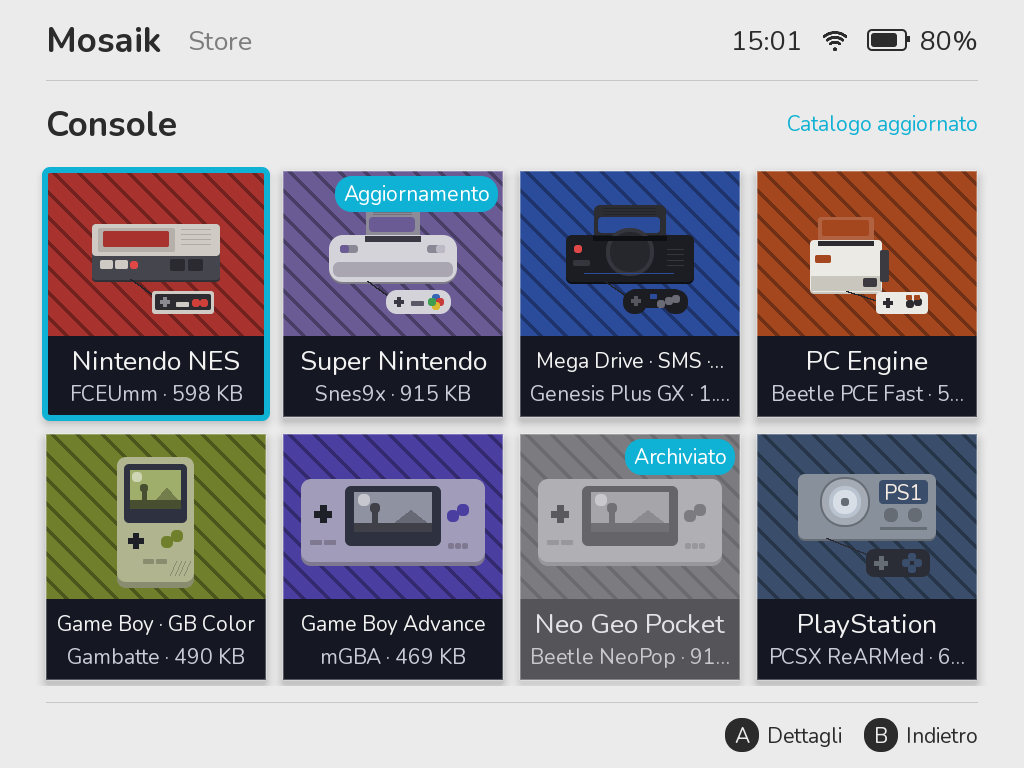
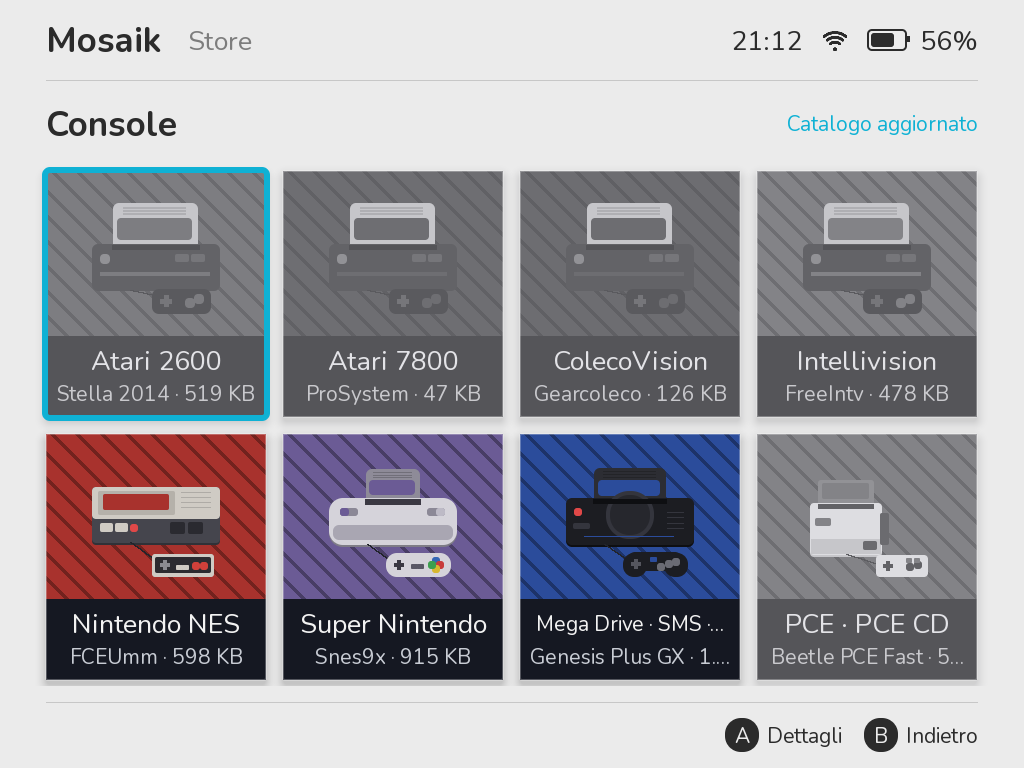
README: foto del nuovo Store (cartelle, console, temi) e dei temi Copertina e Stellato
Stellato: nomi lunghi delle schede con un carattere più piccolo prima dei
puntini (come nella Copertina).

diff --git a/frontend/src/launcher/launcher.c b/frontend/src/launcher/launcher.c
@@ -2438,8 +2438,11 @@ static void gl_card(int x, int y, int w, int h, bool sel, const char *name, cons
     ui_rrect(x, y, w, h, r, frame);
     int top = y + pad / 2, ih = h - nh - sh - pad * 2 - pad / 2, iy = top + nh + pad / 3;
     char fit[96];
-    ui_text_fit(UI.f_normal, name, w - 2 * pad, fit, sizeof fit);
-    ui_text(UI.f_normal, fit, x + w / 2, top, sel ? t->highlight : light, ALIGN_CENTER);
+    /* nome lungo: prima un carattere più piccolo, i puntini solo se non basta */
+    TTF_Font *nf = UI.f_normal;
+    if (ui_text_w(nf, name) > w - 2 * pad) nf = UI.f_small;
+    ui_text_fit(nf, name, w - 2 * pad, fit, sizeof fit);
+    ui_text(nf, fit, x + w / 2, top + (nh - TTF_FontHeight(nf)) / 2, sel ? t->highlight : light, ALIGN_CENTER);
     int gtab = gi >= 0 && !media_image(&games[gi], t->cover_types, t->ncover) ? vt_game_tab(gi) : -1;
     if (gi >= 0 && gtab < 0) cover_box(&games[gi], x + pad, iy, w - 2 * pad, ih, r / 2);
     else if (gi >= 0) {   /* gioco senza immagine: il disegno della sua piattaforma */

diff --git a/README.it.md b/README.it.md
@@ -90,12 +90,28 @@
     <td align="center">La pagina del trasferimento, in qualsiasi browser</td>
   </tr>
   <tr>
-    <td><img src="docs/images/it/store.png" alt="Store"></td>
+    <td><img src="docs/images/it/store-folders.png" alt="Cartelle dello Store"></td>
+    <td><img src="docs/images/it/store.png" alt="Console nello Store"></td>
+  </tr>
+  <tr>
+    <td align="center">Lo Store: arcade, console, app e temi</td>
+    <td align="center">Emulatori installati a colori, gli altri in grigio</td>
+  </tr>
+  <tr>
+    <td><img src="docs/images/it/store-themes.png" alt="Temi nello Store"></td>
     <td><img src="docs/images/it/store-delete.png" alt="Anteprima di Elimina nello Store"></td>
   </tr>
   <tr>
-    <td align="center">Lo Store: emulatori installati a colori, gli altri in grigio</td>
+    <td align="center">Temi da scaricare dallo Store</td>
     <td align="center">Prima di eliminare, cosa si toglie e cosa resta</td>
+  </tr>
+  <tr>
+    <td><img src="docs/images/it/theme-copertina.png" alt="Tema Copertina"></td>
+    <td><img src="docs/images/it/theme-stellato.png" alt="Tema Stellato"></td>
+  </tr>
+  <tr>
+    <td align="center">Tema Copertina: il disegno grande della piattaforma e la striscia sotto</td>
+    <td align="center">Tema Stellato: schede in alto, carte con produttore e anno</td>
   </tr>
 </table>
 

diff --git a/README.md b/README.md
@@ -90,12 +90,28 @@
     <td align="center">The transfer page, in any browser</td>
   </tr>
   <tr>
-    <td><img src="docs/images/store.png" alt="Store"></td>
+    <td><img src="docs/images/store-folders.png" alt="Store folders"></td>
+    <td><img src="docs/images/store.png" alt="Consoles in the Store"></td>
+  </tr>
+  <tr>
+    <td align="center">The Store: arcade, consoles, apps and themes</td>
+    <td align="center">Installed emulators in colour, the others in grey</td>
+  </tr>
+  <tr>
+    <td><img src="docs/images/store-themes.png" alt="Themes in the Store"></td>
     <td><img src="docs/images/store-delete.png" alt="Delete preview in the Store"></td>
   </tr>
   <tr>
-    <td align="center">The Store: installed emulators in colour, the others in grey</td>
+    <td align="center">Themes to download from the Store</td>
     <td align="center">Before deleting, what is removed and what is kept</td>
+  </tr>
+  <tr>
+    <td><img src="docs/images/theme-copertina.png" alt="Cover theme"></td>
+    <td><img src="docs/images/theme-stellato.png" alt="Starry theme"></td>
+  </tr>
+  <tr>
+    <td align="center">Cover theme: the big drawing of the platform and the strip below</td>
+    <td align="center">Starry theme: tabs, and cards with maker and year</td>
   </tr>
 </table>
 
